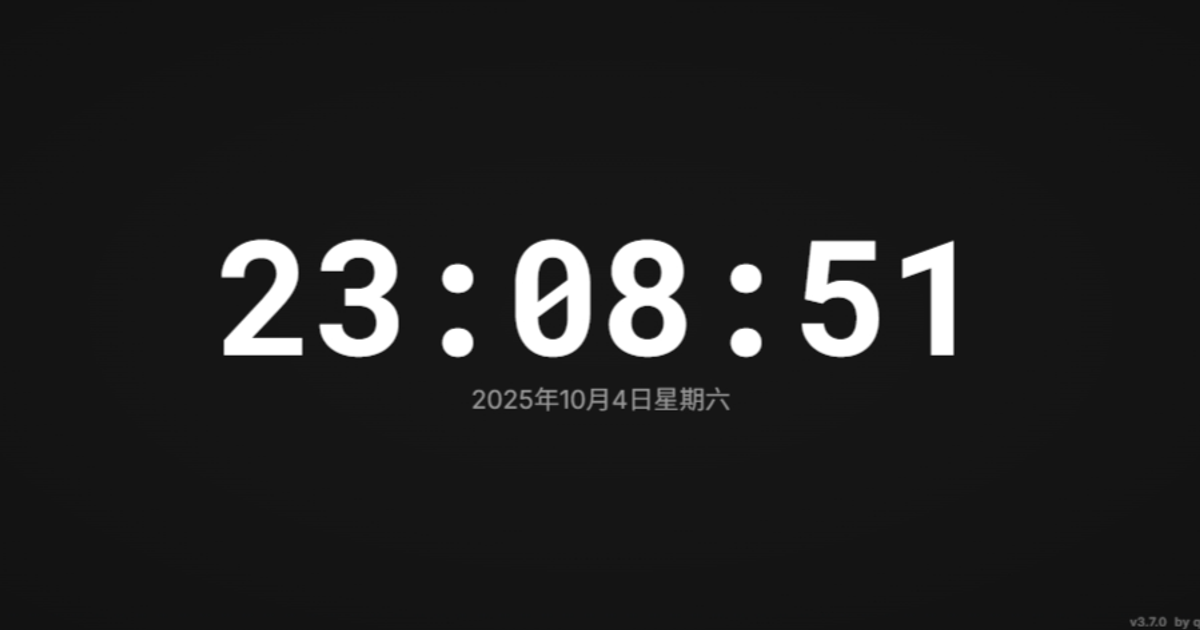
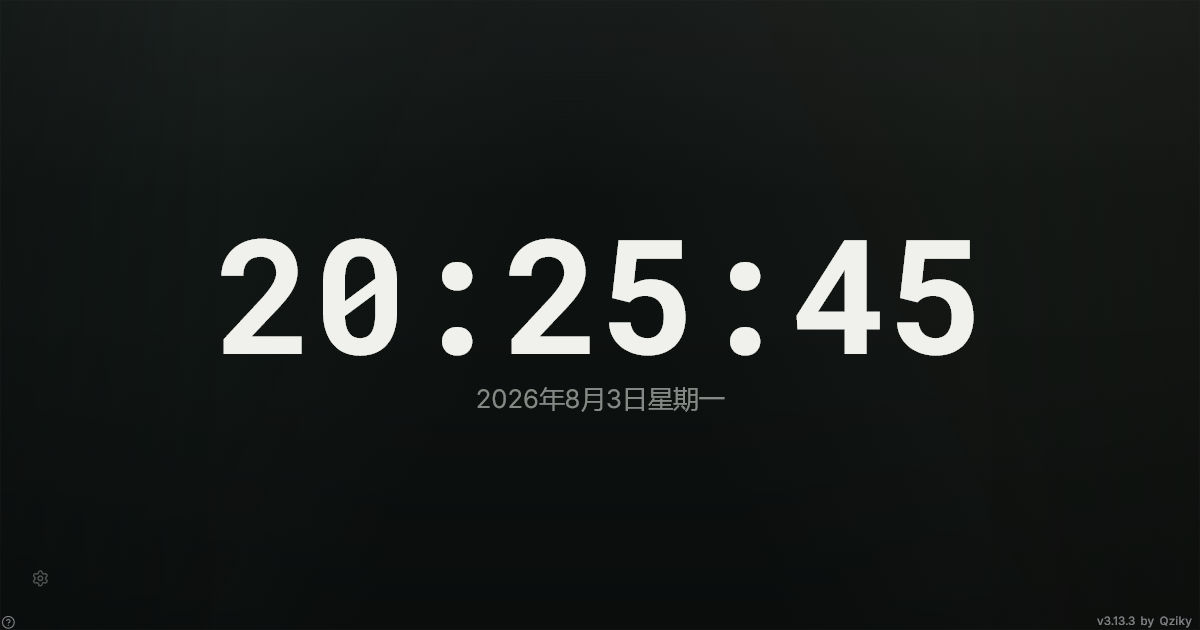
feat: update author information and links throughout the documentation and codebase

diff --git a/index.html b/index.html
@@ -10,7 +10,7 @@
     <title>沉浸式时钟 - 全屏专注时钟⏰｜自习模式·倒计时·秒表 | 教室多媒体大屏</title>
     <meta name="description" content="沉浸式时钟是一款全屏数字时钟、倒计时与秒表工具，含自习模式、天气展示、噪音监测、励志语录与课程表管理。轻量高速，支持 PWA 离线与安装，助力校园投屏与专注学习。" />
     <meta name="keywords" content="沉浸式时钟,全屏时钟,数字时钟,倒计时,秒表,时间管理,全屏显示,自习,教室投屏,校园,噪音监测,天气,励志语录,课程表,PWA,专注学习,电子时钟,全屏数字时钟" />
-    <meta name="author" content="QQHKX" />
+    <meta name="author" content="Qziky" />
     <meta name="theme-color" content="#000000" />
     <meta name="robots" content="index, follow, max-image-preview:large" />
     <meta property="og:title" content="沉浸式时钟 - 全屏专注时钟⏰｜自习模式·倒计时·秒表 | 教室多媒体大屏" />
@@ -91,7 +91,7 @@
     <meta property="og:image:type" content="image/png" />
     <meta property="og:image:width" content="1200" />
     <meta property="og:image:height" content="630" />
-    <meta property="og:updated_time" content="2025-10-04T00:00:00+00:00" />
+    <meta property="og:updated_time" content="2026-08-03T00:00:00+08:00" />
 
     <script type="application/ld+json">
     {
@@ -102,8 +102,8 @@
       "inLanguage": "zh-CN",
       "publisher": {
         "@type": "Person",
-        "name": "QQHKX",
-        "url": "https://qqhkx.com"
+        "name": "Qziky",
+        "url": "https://github.com/Qziky"
       }
     }
     </script>
@@ -224,8 +224,8 @@
       },
       "author": {
         "@type": "Person",
-        "name": "QQHKX",
-        "url": "https://qqhkx.com"
+        "name": "Qziky",
+        "url": "https://github.com/Qziky"
       },
       "screenshot": "https://clock.qqhkx.com/og-image.png",
       "url": "https://clock.qqhkx.com"

diff --git a/src/components/SettingsPanel/sections/AboutSettingsPanel.tsx b/src/components/SettingsPanel/sections/AboutSettingsPanel.tsx
@@ -91,8 +91,9 @@ const AboutSettingsPanel: React.FC<AboutSettingsPanelProps> = ({ onRegisterSave,
 
   const version = (appVersion && String(appVersion)) || pkg.version;
   const license = pkg.license || "MIT";
-  const authorSite = pkg.homepage || "https://qqhkx.com";
-  const repoUrl = "https://github.com/QQHKX/immersive-clock";
+  const authorName = pkg.author.name;
+  const authorUrl = pkg.author.url;
+  const repoUrl = pkg.homepage;
   const isSectionHidden = (candidate: AboutSettingsSection) =>
     section ? section !== candidate : undefined;
 
@@ -169,9 +170,9 @@ const AboutSettingsPanel: React.FC<AboutSettingsPanelProps> = ({ onRegisterSave,
           <MetricCard icon="feature.license" label="授权" value={`${license} License`} />
         </SettingGrid>
         <SettingGrid>
-          <SettingItem icon="feature.authorWebsite" title="作者网站" description={authorSite}>
-            <a href={authorSite} target="_blank" rel="noopener noreferrer">
-              {authorSite}
+          <SettingItem icon="feature.authorWebsite" title="项目作者" description={authorName}>
+            <a href={authorUrl} target="_blank" rel="noopener noreferrer">
+              {authorName}
             </a>
           </SettingItem>
           <SettingItem icon="feature.sourceCode" title="开源地址" description={repoUrl}>

diff --git a/src/components/AuthorInfo/AuthorInfo.tsx b/src/components/AuthorInfo/AuthorInfo.tsx
@@ -1,5 +1,6 @@
 import React from "react";
 
+import pkg from "../../../package.json";
 import { Button } from "../../ui";
 
 import styles from "./AuthorInfo.module.css";
@@ -16,6 +17,8 @@ interface AuthorInfoProps {
 export function AuthorInfo({ onVersionClick }: AuthorInfoProps) {
   // 版本来自环境变量（vite.config 注入）
   const appVersion = import.meta.env.VITE_APP_VERSION;
+  const authorName = pkg.author.name;
+  const projectUrl = pkg.homepage;
 
   /**
    * 处理版本号点击事件
@@ -40,13 +43,8 @@ export function AuthorInfo({ onVersionClick }: AuthorInfoProps) {
           v{appVersion}
         </Button>
         <span className={styles.by}>by</span>
-        <a
-          href="https://qqhkx.com"
-          target="_blank"
-          rel="noopener noreferrer"
-          className={styles.action}
-        >
-          qqhkx
+        <a href={projectUrl} target="_blank" rel="noopener noreferrer" className={styles.action}>
+          {authorName}
         </a>
       </div>
     </aside>

diff --git a/src/components/AuthorInfo/__tests__/AuthorInfo.test.tsx b/src/components/AuthorInfo/__tests__/AuthorInfo.test.tsx
@@ -1,0 +1,24 @@
+import { fireEvent, render, screen } from "@testing-library/react";
+import { describe, expect, it, vi } from "vitest";
+
+import { AuthorInfo } from "../AuthorInfo";
+
+describe("AuthorInfo", () => {
+  it("展示 Qziky 并链接到当前项目仓库", () => {
+    render(<AuthorInfo />);
+
+    expect(screen.getByRole("link", { name: "Qziky" })).toHaveAttribute(
+      "href",
+      "https://github.com/Qziky/Immersive-clock"
+    );
+  });
+
+  it("点击版本号时触发公告回调", () => {
+    const onVersionClick = vi.fn();
+    render(<AuthorInfo onVersionClick={onVersionClick} />);
+
+    fireEvent.click(screen.getByRole("button", { name: /点击查看更新公告/ }));
+
+    expect(onVersionClick).toHaveBeenCalledTimes(1);
+  });
+});

diff --git a/sitemap.html b/sitemap.html
@@ -45,7 +45,7 @@
   
   <ul>
     <li>
-      <a href="https://clock.qqhkx.com/">首页 - 沉浸式时钟</a>
+      <a href="https://clock.qqhkx.com/">首页 - 沉浸式时钟（现有外部部署）</a>
       <div class="description">沉浸式时钟主页 - 提供全屏数字时钟、倒计时和秒表功能</div>
     </li>
   </ul>
@@ -61,7 +61,7 @@
   <h2>公告与更新日志</h2>
   <p class="description">公告与更新日志请在应用内查看（公告弹窗内含公告与更新日志两个标签页）。</p>
 
-  <p>最后更新: 2025年10月18日</p>
-  <p><a href="https://qqhkx.com">访问作者网站</a></p>
+  <p>最后更新: 2026年8月3日</p>
+  <p><a href="https://github.com/Qziky/Immersive-clock">访问项目仓库</a></p>
 </body>
 </html>

diff --git a/src/components/SettingsPanel/__tests__/AboutSettingsPanel.test.tsx b/src/components/SettingsPanel/__tests__/AboutSettingsPanel.test.tsx
@@ -54,6 +54,13 @@ describe("AboutSettingsPanel", () => {
   it("在项目信息中展示今日诗词服务与隐私说明", () => {
     render(<AboutSettingsPanel section="project" />);
 
+    expect(screen.getByRole("link", { name: "Qziky" })).toHaveAttribute(
+      "href",
+      "https://github.com/Qziky"
+    );
+    expect(
+      screen.getByRole("link", { name: "https://github.com/Qziky/Immersive-clock" })
+    ).toHaveAttribute("href", "https://github.com/Qziky/Immersive-clock");
     expect(screen.getByText("服务与隐私说明")).toBeInTheDocument();
     expect(
       screen.getByText(/今日诗词免费版仅限非商业使用。启用后会由服务方处理公开 IP/)

diff --git a/README.en-US.md b/README.en-US.md
@@ -10,10 +10,10 @@
 [![Vite](https://img.shields.io/badge/Vite-7-9135ff?logo=vite)](https://vite.dev/)
 [![Electron](https://img.shields.io/badge/Electron-desktop-9feaf9?logo=electron)](https://www.electronjs.org/)
 [![PWA](https://img.shields.io/badge/PWA-ready-5A0FC8?logo=pwa)](https://clock.qqhkx.com)
-[![Platform](https://img.shields.io/badge/Platform-Web%20%7C%20PWA%20%7C%20Win%20%7C%20Linux-blue)](https://github.com/QQHKX/immersive-clock/releases)
-[![Ask DeepWiki](https://deepwiki.com/badge.svg)](https://deepwiki.com/QQHKX/Immersive-clock)
+[![Platform](https://img.shields.io/badge/Platform-Web%20%7C%20PWA%20%7C%20Win%20%7C%20Linux-blue)](https://github.com/Qziky/Immersive-clock/releases)
+[![Ask DeepWiki](https://deepwiki.com/badge.svg)](https://deepwiki.com/Qziky/Immersive-clock)
 
-[🖥 Live Demo](https://clock.qqhkx.com) | [🇨🇳 简体中文](README.md) ｜ 🇺🇸 English
+[🖥 Existing External Demo](https://clock.qqhkx.com) | [🇨🇳 简体中文](README.md) ｜ 🇺🇸 English
 
 <pre>
 Elegant time management, focused learning
@@ -58,7 +58,7 @@ network time sources depend on their respective third-party services.
 ## 🌠 Interface Preview
 
 The interface continues to evolve. To avoid keeping obsolete settings and report screenshots in the
-README, this page no longer embeds the retired gallery. Use the [live demo](https://clock.qqhkx.com)
+README, this page no longer embeds the retired gallery. Use the [existing external demo](https://clock.qqhkx.com)
 to see the current version.
 
 The main interface includes:
@@ -80,7 +80,7 @@ promotional images.
 The PWA launches from its own icon and keeps the core clock interface and local content available
 after the first successful online load.
 
-1. Open the [live app](https://clock.qqhkx.com) in a modern Chrome, Edge, or Safari browser.
+1. Open the [existing external deployment](https://clock.qqhkx.com) in a modern Chrome, Edge, or Safari browser.
 2. Use the browser's Install App or Add to Home Screen action.
 3. Launch it later from the desktop, Start menu, or home screen.
 
@@ -88,12 +88,12 @@ Weather, online quotes, network time sources, and external feedback still requir
 
 ### 🌐 Option 2: Use the browser version
 
-Open [clock.qqhkx.com](https://clock.qqhkx.com) without installing anything. A recent Chrome, Edge, or
+Open the existing external deployment at [clock.qqhkx.com](https://clock.qqhkx.com) without installing anything. A recent Chrome, Edge, or
 Safari version is recommended for PWA, audio, location, and fullscreen capabilities.
 
 ### 💻 Option 3: Use an Electron desktop build
 
-Download packages from [GitHub Releases](https://github.com/QQHKX/immersive-clock/releases/latest):
+Download packages from [GitHub Releases](https://github.com/Qziky/Immersive-clock/releases/latest):
 
 - **Windows**: x64 installer and portable builds.
 - **Linux**: AppImage, deb, and rpm builds.
@@ -242,7 +242,7 @@ Share experiences, report bugs, or suggest features. Include the operating syste
 reproduction steps, and relevant screenshots or recordings when reporting a problem.
 
 - QQ group: [965931796](https://qm.qq.com/q/fawykipRhm)
-- [GitHub Issues](https://github.com/QQHKX/immersive-clock/issues)
+- [GitHub Issues](https://github.com/Qziky/Immersive-clock/issues)
 - In-app feedback: select the version label and switch to the Feedback tab
 - [Tencent survey](https://wj.qq.com/s2/25666249/lj9p/)
 
@@ -261,18 +261,19 @@ the [technical knowledge base](docs/technical/README.md).
 ## 📄 License and Author
 
 - License: [GPL-3.0](LICENSE)
-- Author: [QQHKX](https://github.com/QQHKX)
-- Website: [qqhkx.com](https://qqhkx.com)
+- Author: [Qziky](https://github.com/Qziky)
+- Repository: [Qziky/Immersive-clock](https://github.com/Qziky/Immersive-clock)
 
 ## 🧬 Derivative Projects
 
-### Immersive Noise Monitoring (`Immersive-clock-monitor`)
+### Immersive Noise Monitoring (`Immersive-clock-monitor`, externally maintained)
 
 - Repository: [QQHKX/Immersive-clock-monitor](https://github.com/QQHKX/Immersive-clock-monitor)
 
-This project extracts noise-related capabilities from Immersive Clock as an independent open-source
-reference for environmental feature capture and relative quietness scoring. It should likewise not be
-described as a certified sound level meter or professional acoustic instrument.
+This project is maintained by QQHKX in an external repository. It extracts noise-related capabilities
+from Immersive Clock as an independent open-source reference for environmental feature capture and
+relative quietness scoring. It should likewise not be described as a certified sound level meter or
+professional acoustic instrument.
 
 See [Community and Ecosystem](docs/marketing/community-and-ecosystem.md) for more links.
 
@@ -284,11 +285,11 @@ See [Community and Ecosystem](docs/marketing/community-and-ecosystem.md) for mor
 ## ⭐ Star History
 
 <div align="center">
-  <a href="https://www.star-history.com/#QQHKX/Immersive-clock&type=date&legend=top-left">
+  <a href="https://www.star-history.com/#Qziky/Immersive-clock&type=date&legend=top-left">
     <picture>
-      <source media="(prefers-color-scheme: dark)" srcset="https://api.star-history.com/svg?repos=QQHKX/Immersive-clock&type=date&theme=dark&legend=top-left" />
-      <source media="(prefers-color-scheme: light)" srcset="https://api.star-history.com/svg?repos=QQHKX/Immersive-clock&type=date&legend=top-left" />
-      <img alt="Star History Chart" src="https://api.star-history.com/svg?repos=QQHKX/Immersive-clock&type=date&legend=top-left" />
+      <source media="(prefers-color-scheme: dark)" srcset="https://api.star-history.com/svg?repos=Qziky/Immersive-clock&type=date&theme=dark&legend=top-left" />
+      <source media="(prefers-color-scheme: light)" srcset="https://api.star-history.com/svg?repos=Qziky/Immersive-clock&type=date&legend=top-left" />
+      <img alt="Star History Chart" src="https://api.star-history.com/svg?repos=Qziky/Immersive-clock&type=date&legend=top-left" />
     </picture>
   </a>
   <p>If this project helps you, consider leaving a Star ⭐</p>

diff --git a/docs/technical/engineering/testing-coverage-map.md b/docs/technical/engineering/testing-coverage-map.md
@@ -42,7 +42,7 @@
 | 公告/反馈          | `src/components/AnnouncementModal/__tests__/AnnouncementModal.test.tsx`、`src/utils/__tests__/announcementStorage.test.ts`                                                    | `AnnouncementModal`、`announcementStorage.ts`                                        |
 | 公共 UI            | `src/ui/components/__tests__/*.test.tsx`、`src/ui/icons/__tests__/AppIcon.test.tsx`、`src/ui/__tests__/uiGovernance.test.ts`                                                  | `src/ui`、`src/pages/DesignSystem/componentCatalog.tsx`                              |
 | 全屏               | `src/hooks/__tests__/useFullscreen.test.ts`                                                                                                                                   | `src/hooks/useFullscreen.ts`                                                         |
-| 运行平台/PWA       | `src/utils/__tests__/runtimePlatform.test.ts`、`src/components/SettingsPanel/__tests__/AboutSettingsPanel.test.tsx`                                                           | `src/utils/runtimePlatform.ts`、`src/main.tsx`、`AboutSettingsPanel.tsx`             |
+| 运行平台/PWA       | `src/utils/__tests__/runtimePlatform.test.ts`、`src/components/SettingsPanel/__tests__/AboutSettingsPanel.test.tsx`、`src/components/AuthorInfo/__tests__/AuthorInfo.test.tsx` | `src/utils/runtimePlatform.ts`、`src/main.tsx`、`AboutSettingsPanel.tsx`、`AuthorInfo.tsx` |
 
 ## E2E 映射
 

diff --git a/docs/marketing/community-and-ecosystem.md b/docs/marketing/community-and-ecosystem.md
@@ -2,9 +2,9 @@
 
 ## 官方入口
 
-- 在线体验：https://clock.qqhkx.com
-- 源代码：https://github.com/QQHKX/Immersive-clock
-- 问题反馈：https://github.com/QQHKX/immersive-clock/issues
+- 现有外部在线部署：https://clock.qqhkx.com
+- 源代码：https://github.com/Qziky/Immersive-clock
+- 问题反馈：https://github.com/Qziky/Immersive-clock/issues
 - QQ 交流群：965931796
 - 应用内反馈：点击右下角版本号打开公告窗口，切换到“意见反馈”。
 - 腾讯问卷：https://wj.qq.com/s2/25666249/lj9p/
@@ -21,11 +21,11 @@
 
 ## 衍生项目
 
-### Immersive-clock-monitor
+### Immersive-clock-monitor（外部维护）
 
 - 项目地址：https://github.com/QQHKX/Immersive-clock-monitor
 
-该项目从沉浸式时钟的环境监测方向衍生，适合关注噪音评分实现与独立监测场景的开发者。介绍时应以衍生项目当前 README 为准，不把两个项目的版本、功能和支持承诺混为一谈。
+该项目由 QQHKX 在外部仓库维护，从沉浸式时钟的环境监测方向衍生，适合关注噪音评分实现与独立监测场景的开发者。介绍时应以衍生项目当前 README 为准，不把两个项目的作者、版本、功能和支持承诺混为一谈。
 
 ## 友情链接
 

diff --git a/docs/user-guide/en-us/user-guide.md b/docs/user-guide/en-us/user-guide.md
@@ -215,7 +215,7 @@ Use the online link in the repository [README](../../../README.en-US.md), or ins
 - Android Chrome: use Install App or Add to Home Screen.
 - iPhone/iPad Safari: use Share → Add to Home Screen.
 
-Windows and Linux desktop packages are available from [GitHub Releases](https://github.com/QQHKX/immersive-clock/releases). There is currently no published macOS desktop package; use the web or PWA version on macOS.
+Windows and Linux desktop packages are available from [GitHub Releases](https://github.com/Qziky/Immersive-clock/releases). There is currently no published macOS desktop package; use the web or PWA version on macOS.
 
 After the first successful online load, the PWA normally keeps the core clock interface and local content available offline. New weather, city search, online quotes, network time sources, and external feedback still require a connection.
 

diff --git a/docs/marketing/copy/channel-copy.md b/docs/marketing/copy/channel-copy.md
@@ -33,7 +33,7 @@
 
 ### 功能介绍
 
-> 想把教室大屏或旧平板变成一块安静的时间看板？沉浸式时钟提供时钟、倒计时、秒表和自习模式，课程、天气、语录与环境信息都可以按需开关。Web 直接使用，也支持安装为 PWA。在线体验：https://clock.qqhkx.com
+> 想把教室大屏或旧平板变成一块安静的时间看板？沉浸式时钟提供时钟、倒计时、秒表和自习模式，课程、天气、语录与环境信息都可以按需开关。Web 直接使用，也支持安装为 PWA。现有外部在线体验：https://clock.qqhkx.com
 
 ### 新版本
 
